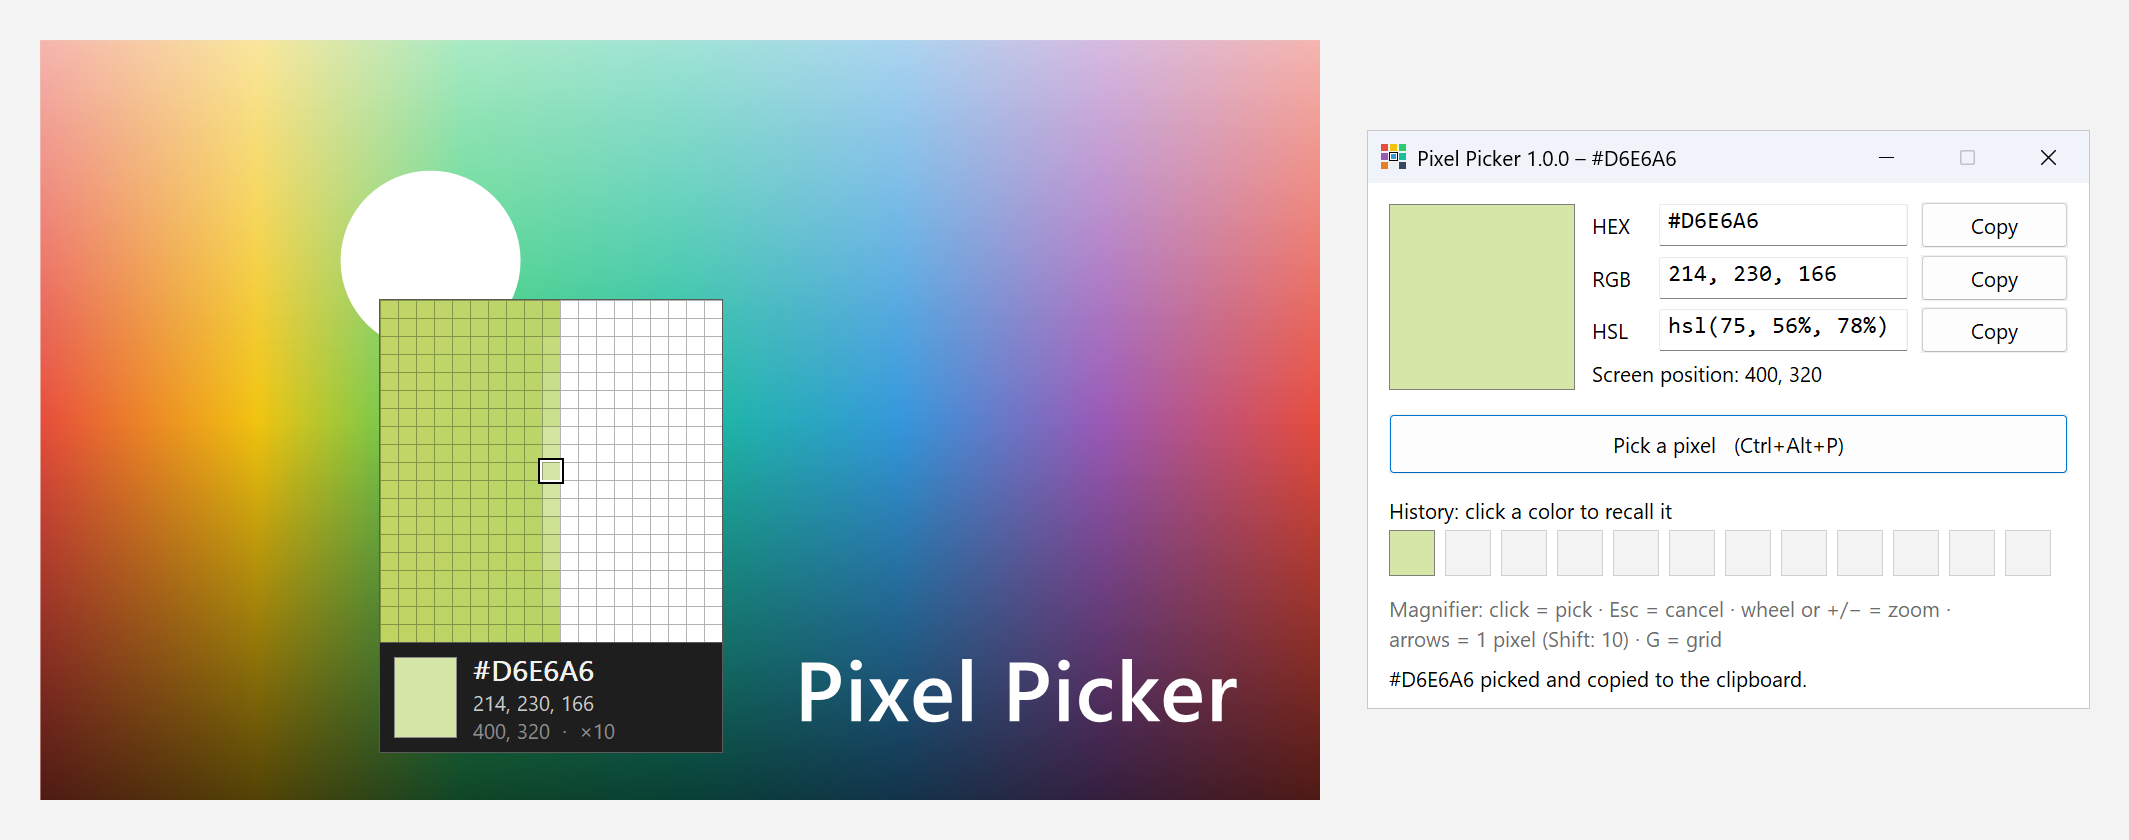
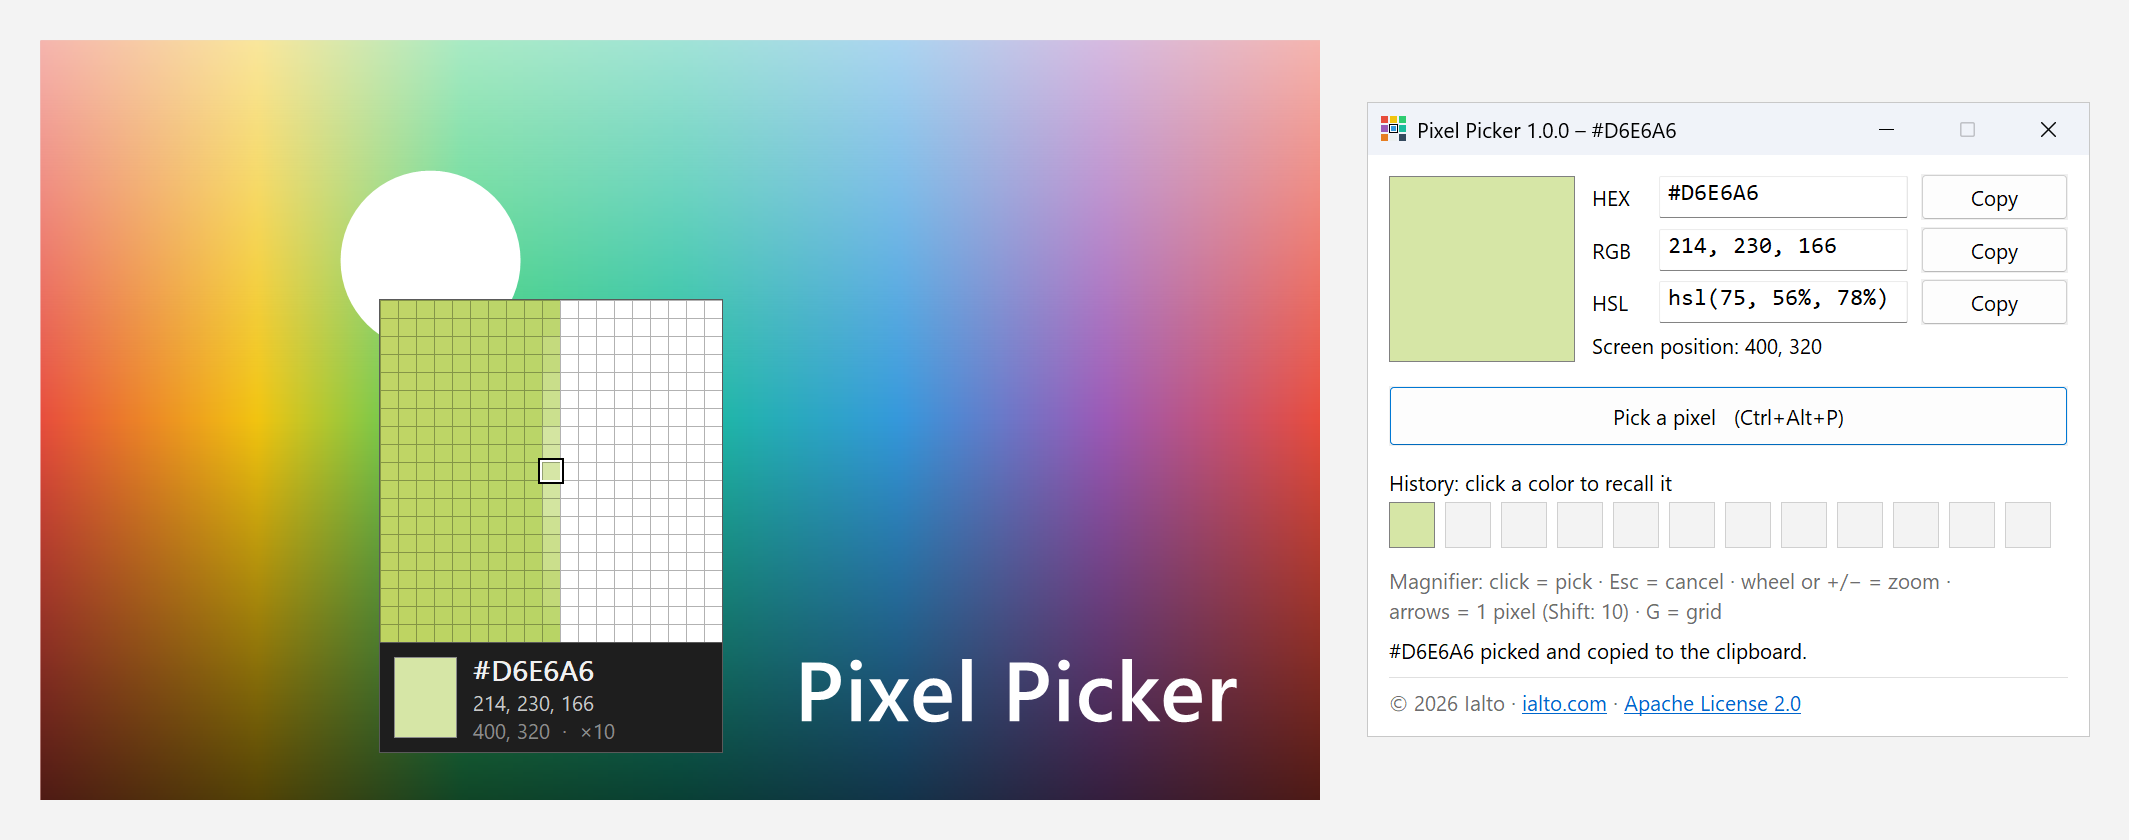
Show Ialto's link and the licence in the window
The foot of the main window now reads "(c) 2026 Ialto - ialto.com -
Apache License 2.0", with ialto.com and the licence as links (SysLink)
that open in the browser, by mouse or keyboard. Only https addresses
are opened.

The README and its screenshot show the new footer.

Changed region(s): [[0.651, 0.1238, 0.961, 0.8667]]

diff --git a/src/app.rs b/src/app.rs
@@ -19,23 +19,25 @@ use windows_sys::Win32::System::SystemServices::{
     SS_CENTERIMAGE, SS_ENDELLIPSIS, SS_LEFT, SS_LEFTNOWORDWRAP, SS_NOPREFIX,
 };
 use windows_sys::Win32::System::Threading::CreateMutexW;
+use windows_sys::Win32::UI::Controls::{LWS_TRANSPARENT, NM_CLICK, NM_RETURN, NMHDR, NMLINK};
 use windows_sys::Win32::UI::HiDpi::{AdjustWindowRectExForDpi, GetDpiForWindow};
 use windows_sys::Win32::UI::Input::KeyboardAndMouse::{
     EnableWindow, GetFocus, MOD_ALT, MOD_CONTROL, MOD_NOREPEAT, RegisterHotKey, SetFocus,
     UnregisterHotKey,
 };
+use windows_sys::Win32::UI::Shell::ShellExecuteW;
 use windows_sys::Win32::UI::WindowsAndMessaging::{
     BS_DEFPUSHBUTTON, BS_PUSHBUTTON, CW_USEDEFAULT, CreateWindowExW, DefWindowProcW,
     DispatchMessageW, ES_AUTOHSCROLL, ES_READONLY, FindWindowW, GetCursorPos, GetDlgCtrlID,
     GetDlgItem, GetMessageW, GetSystemMetrics, HMENU, HTCLIENT, IDC_ARROW, IDC_HAND, IsChild,
     IsDialogMessageW, IsIconic, IsWindowVisible, KillTimer, LoadCursorW, MB_ICONERROR, MB_OK, MSG,
     MessageBoxW, MoveWindow, PostQuitMessage, RegisterClassExW, SM_CXICON, SM_CXSMICON, SW_HIDE,
-    SW_RESTORE, SW_SHOW, SW_SHOWDEFAULT, SWP_NOACTIVATE, SWP_NOMOVE, SWP_NOZORDER, SendMessageW,
-    SetCursor, SetForegroundWindow, SetTimer, SetWindowPos, SetWindowTextW, ShowWindow,
-    TranslateMessage, WA_INACTIVE, WINDOW_STYLE, WM_ACTIVATE, WM_COMMAND, WM_CTLCOLORSTATIC,
-    WM_DESTROY, WM_DPICHANGED, WM_HOTKEY, WM_LBUTTONDOWN, WM_PAINT, WM_SETCURSOR, WM_SETFONT,
-    WM_TIMER, WNDCLASSEXW, WS_CAPTION, WS_CHILD, WS_CLIPCHILDREN, WS_EX_CLIENTEDGE, WS_MINIMIZEBOX,
-    WS_OVERLAPPED, WS_SYSMENU, WS_TABSTOP, WS_VISIBLE,
+    SW_RESTORE, SW_SHOW, SW_SHOWDEFAULT, SW_SHOWNORMAL, SWP_NOACTIVATE, SWP_NOMOVE, SWP_NOZORDER,
+    SendMessageW, SetCursor, SetForegroundWindow, SetTimer, SetWindowPos, SetWindowTextW,
+    ShowWindow, TranslateMessage, WA_INACTIVE, WINDOW_STYLE, WM_ACTIVATE, WM_COMMAND,
+    WM_CTLCOLORSTATIC, WM_DESTROY, WM_DPICHANGED, WM_HOTKEY, WM_LBUTTONDOWN, WM_NOTIFY, WM_PAINT,
+    WM_SETCURSOR, WM_SETFONT, WM_TIMER, WNDCLASSEXW, WS_CAPTION, WS_CHILD, WS_CLIPCHILDREN,
+    WS_EX_CLIENTEDGE, WS_MINIMIZEBOX, WS_OVERLAPPED, WS_SYSMENU, WS_TABSTOP, WS_VISIBLE,
 };
 
 use crate::color::Rgb;
@@ -59,15 +61,22 @@ const TIMER_CAPTURE: usize = 1;
 const HIDE_DELAY_MS: u32 = 150;
 const HISTORY_LEN: usize = 12;
 
+/// The footer's links: the maker and the licence.
+const IALTO_URL: &str = "https://ialto.com";
+const LICENSE_URL: &str = "https://www.apache.org/licenses/LICENSE-2.0";
+
 // Control identifiers. The capture button is IDOK (1), so Enter starts a capture.
 const ID_CAPTURE: u16 = 1;
 const ID_POSITION: u16 = 130;
 const ID_HISTORY_LABEL: u16 = 131;
 const ID_HINT: u16 = 132;
 const ID_STATUS: u16 = 133;
+const ID_FOOTER: u16 = 134;
 
 // Layout, in 96-DPI units.
-const CLIENT_SIZE: (i32, i32) = (412, 300);
+const CLIENT_SIZE: (i32, i32) = (412, 332);
+/// The line between the status and the footer.
+const SEPARATOR: (i32, i32, i32) = (12, 298, 388);
 const SWATCH: (i32, i32, i32, i32) = (12, 12, 106, 106);
 const HISTORY_ORIGIN: (i32, i32) = (12, 198);
 const HISTORY_SWATCH: i32 = 26;
@@ -139,6 +148,8 @@ enum Kind {
     DefaultButton,
     Text,
     Hint,
+    /// Text with `<a href="...">` links (SysLink), opened in the browser when clicked.
+    Links,
 }
 
 /// A child control: identifier, kind, initial text and position (96-DPI units: x, y, w, h).
@@ -182,6 +193,10 @@ fn controls() -> Vec<Control> {
     let hint = "Magnifier: click\u{a0}=\u{a0}pick · Esc\u{a0}=\u{a0}cancel · \
                 wheel\u{a0}or\u{a0}+/−\u{a0}=\u{a0}zoom · \
                 arrows\u{a0}=\u{a0}1\u{a0}pixel\u{a0}(Shift:\u{a0}10) · G\u{a0}=\u{a0}grid";
+    let footer = format!(
+        "© 2026 Ialto · <a href=\"{IALTO_URL}\">ialto.com</a> · \
+         <a href=\"{LICENSE_URL}\">Apache License 2.0</a>"
+    );
     list.extend([
         Control::new(ID_POSITION, Kind::Text, "", (128, 100, 272, 18)),
         Control::new(
@@ -198,6 +213,7 @@ fn controls() -> Vec<Control> {
         ),
         Control::new(ID_HINT, Kind::Hint, hint, (12, 234, 388, 34)),
         Control::new(ID_STATUS, Kind::Text, "", (12, 274, 388, 18)),
+        Control::new(ID_FOOTER, Kind::Links, footer, (12, 304, 388, 18)),
     ]);
     list
 }
@@ -409,6 +425,7 @@ fn create_control(parent: HWND, hinstance: HINSTANCE, c: &Control) {
             0,
         ),
         Kind::Hint => ("STATIC", base | SS_LEFT | SS_NOPREFIX, 0),
+        Kind::Links => ("SysLink", base | WS_TABSTOP | LWS_TRANSPARENT, 0),
     };
     let class = win::wide(class);
     let text = win::wide(&c.text);
@@ -576,10 +593,11 @@ extern "system" fn wnd_proc(hwnd: HWND, msg: u32, wparam: WPARAM, lparam: LPARAM
                 DefWindowProcW(hwnd, msg, wparam, lparam)
             }
             WM_CTLCOLORSTATIC => {
-                // White background for labels and read-only fields, gray for the hint.
+                // White background for labels and read-only fields; gray for the hint and
+                // the footer.
                 let hdc = wparam as HDC;
-                let control = lparam as HWND;
-                let text = if GetDlgCtrlID(control) == i32::from(ID_HINT) {
+                let id = GetDlgCtrlID(lparam as HWND);
+                let text = if id == i32::from(ID_HINT) || id == i32::from(ID_FOOTER) {
                     COLOR_GRAYTEXT
                 } else {
                     COLOR_WINDOWTEXT
@@ -587,6 +605,18 @@ extern "system" fn wnd_proc(hwnd: HWND, msg: u32, wparam: WPARAM, lparam: LPARAM
                 SetTextColor(hdc, GetSysColor(text));
                 SetBkColor(hdc, GetSysColor(COLOR_WINDOW));
                 GetSysColorBrush(COLOR_WINDOW) as LRESULT
+            }
+            WM_NOTIFY => {
+                // A footer link clicked, or Enter on it.
+                let header = &*(lparam as *const NMHDR);
+                if header.idFrom == usize::from(ID_FOOTER)
+                    && (header.code == NM_CLICK || header.code == NM_RETURN)
+                {
+                    let link = &*(lparam as *const NMLINK);
+                    open_link(hwnd, &link.item.szUrl);
+                    return 0;
+                }
+                DefWindowProcW(hwnd, msg, wparam, lparam)
             }
             WM_ACTIVATE => {
                 // Keep the keyboard focus on the same control across deactivation.
@@ -621,6 +651,28 @@ extern "system" fn wnd_proc(hwnd: HWND, msg: u32, wparam: WPARAM, lparam: LPARAM
             }
             _ => DefWindowProcW(hwnd, msg, wparam, lparam),
         }
+    }
+}
+
+/// Opens a footer link (NUL-terminated UTF-16) in the default browser. Only web addresses
+/// are opened.
+fn open_link(hwnd: HWND, url: &[u16]) {
+    let end = url.iter().position(|&c| c == 0).unwrap_or(url.len());
+    let address = String::from_utf16_lossy(&url[..end]);
+    if !address.starts_with("https://") {
+        return;
+    }
+    let verb = win::wide("open");
+    let address = win::wide(&address);
+    unsafe {
+        ShellExecuteW(
+            hwnd,
+            verb.as_ptr(),
+            address.as_ptr(),
+            null(),
+            null(),
+            SW_SHOWNORMAL,
+        );
     }
 }
 
@@ -776,6 +828,12 @@ fn paint(hwnd: HWND) {
         for i in 0..HISTORY_LEN {
             draw_swatch(hdc, &history_rect(dpi, i), history.get(i).copied());
         }
+        let (x, y, w) = SEPARATOR;
+        let s = |v: i32| win::scale(v, dpi);
+        let line = win::rect(s(x), s(y), s(w), 1);
+        let brush = CreateSolidBrush(0xE0_E0_E0);
+        FillRect(hdc, &line, brush);
+        DeleteObject(brush);
         EndPaint(hwnd, &ps);
     }
 }

diff --git a/src/main.rs b/src/main.rs
@@ -17,7 +17,7 @@ mod picker;
 mod win;
 
 use windows_sys::Win32::UI::Controls::{
-    ICC_STANDARD_CLASSES, INITCOMMONCONTROLSEX, InitCommonControlsEx,
+    ICC_LINK_CLASS, ICC_STANDARD_CLASSES, INITCOMMONCONTROLSEX, InitCommonControlsEx,
 };
 use windows_sys::Win32::UI::HiDpi::{
     DPI_AWARENESS_CONTEXT_PER_MONITOR_AWARE_V2, SetProcessDpiAwarenessContext,
@@ -30,7 +30,8 @@ fn main() {
         SetProcessDpiAwarenessContext(DPI_AWARENESS_CONTEXT_PER_MONITOR_AWARE_V2);
         let controls = INITCOMMONCONTROLSEX {
             dwSize: size_of::<INITCOMMONCONTROLSEX>() as u32,
-            dwICC: ICC_STANDARD_CLASSES,
+            // Buttons, fields and labels, and the footer's links (SysLink).
+            dwICC: ICC_STANDARD_CLASSES | ICC_LINK_CLASS,
         };
         InitCommonControlsEx(&controls);
     }

diff --git a/README.md b/README.md
@@ -48,6 +48,9 @@ straight to the clipboard, and the title (shown in the taskbar) gives it. If ano
 already holds Ctrl+Alt+P, the window says so and only the button starts picking. Only one Pixel
 Picker runs at a time: starting it again brings the window forward.
 
+The foot of the window gives the copyright, a link to [ialto.com](https://ialto.com) and one to
+the [Apache License 2.0](https://www.apache.org/licenses/LICENSE-2.0); both open in the browser.
+
 ## How it works
 
 Picking starts with a screenshot of every monitor, shown frozen in a topmost window that
@@ -101,7 +104,7 @@ Plain Win32 through [`windows-sys`](https://crates.io/crates/windows-sys), no GU
 | Module | Role |
 |---|---|
 | `main.rs` | Entry point: DPI awareness, common controls |
-| `app.rs` | The main window: values, copy buttons, history, global shortcut, single instance |
+| `app.rs` | The main window: values, copy buttons, history, footer links, global shortcut, single instance |
 | `picker.rs` | Picking: the frozen full-screen window, mouse and keyboard, the magnifier box's text |
 | `magnifier.rs` | The magnifier's geometry and pixels (pure code, tested) |
 | `capture.rs` | 32-bit bitmaps and the capture of every monitor |
